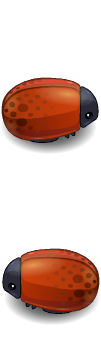
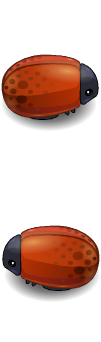
refactor: Use Bug class for bugs

diff --git a/js/bug.js b/js/bug.js
@@ -1,0 +1,61 @@
+class Bug {
+  constructor(type, options) {
+    this.type = type;
+    this.options = options;
+
+    this.sprite = new Sprite({
+      url: `images/${type}-bug.png`,
+      numberOfFrames: type === 'land' ? 1 : 4,
+      period: 0.5,
+      once: false,
+    });
+
+    this.setToRandom();
+  };
+
+  setToRandom() {
+    const rowNumber = Math.floor(Math.random() * this.options.rows.length);
+    const direction = this.options.rows[rowNumber].direction;
+
+    this.sprite.position.x = direction > 0 ? -202 : 606;
+    this.sprite.position.y = this.options.rows[rowNumber].row * 83;
+
+    this.sprite.v.x = Math.random() * (this.options.maxSpeed - this.options.minSpeed) + this.options.minSpeed;
+    this.sprite.v.x *= direction
+
+    this.sprite.spriteOffset = direction > 0 ? 0 : 171;
+  }
+
+  update(dt) {
+    this.sprite.update(dt);
+
+    if (this.sprite.position.x > 606 || this.sprite.position.x < -202) {
+      this.setToRandom();
+    }
+  };
+
+  render() {
+    this.sprite.render();
+  };
+
+  offScreen() {
+    return this.sprite.position.x < -101 || this.sprite.position.x > 505;
+  }
+
+  get row() {
+    return Math.floor(this.sprite.position.y / 83);
+  }
+
+  get x() {
+    return this.sprite.position.x;
+  }
+
+  get v() {
+    return this.sprite.v.x;
+  }
+
+  set v(value) {
+    this.sprite.v.x = value;
+  }
+
+}

diff --git a/js/engine.js b/js/engine.js
@@ -325,10 +325,10 @@ var Engine = (function(global) {
 
     const bugs = [];
     for(let i = 0; i < level.landBugs.number; i++) {
-      bugs.push(new LandBug(level.landBugs.options));
+      bugs.push(new Bug('land', level.landBugs.options));
     }
     for(let i = 0; i < level.waterBugs.number; i++) {
-      bugs.push(new WaterBug(level.waterBugs.options));
+      bugs.push(new Bug('water', level.waterBugs.options));
     }
     return bugs;
   }

diff --git a/index.html b/index.html
@@ -13,8 +13,7 @@
   <script src="js/sprite.js"></script>
   <script src="js/animations.js"></script>
   <script src="js/player.js"></script>
-  <script src="js/water-bug.js"></script>
-  <script src="js/land-bug.js"></script>
+  <script src="js/bug.js"></script>
   <script src="js/engine.js"></script>
 </body>
 

diff --git a/js/sprite.js b/js/sprite.js
@@ -8,6 +8,8 @@ class Sprite {
         period: 1,
         numberOfFrames: 1,
         once: true,
+        spriteOffset: 0,
+        center: { x: 0,  y: 0 },
       },
       props
     );
